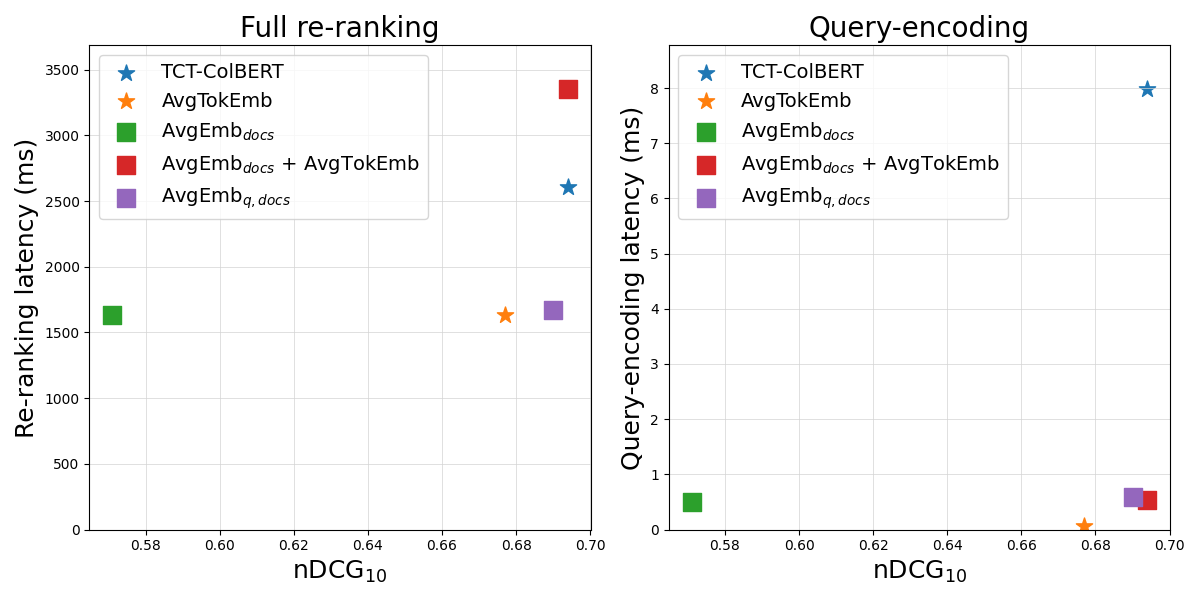
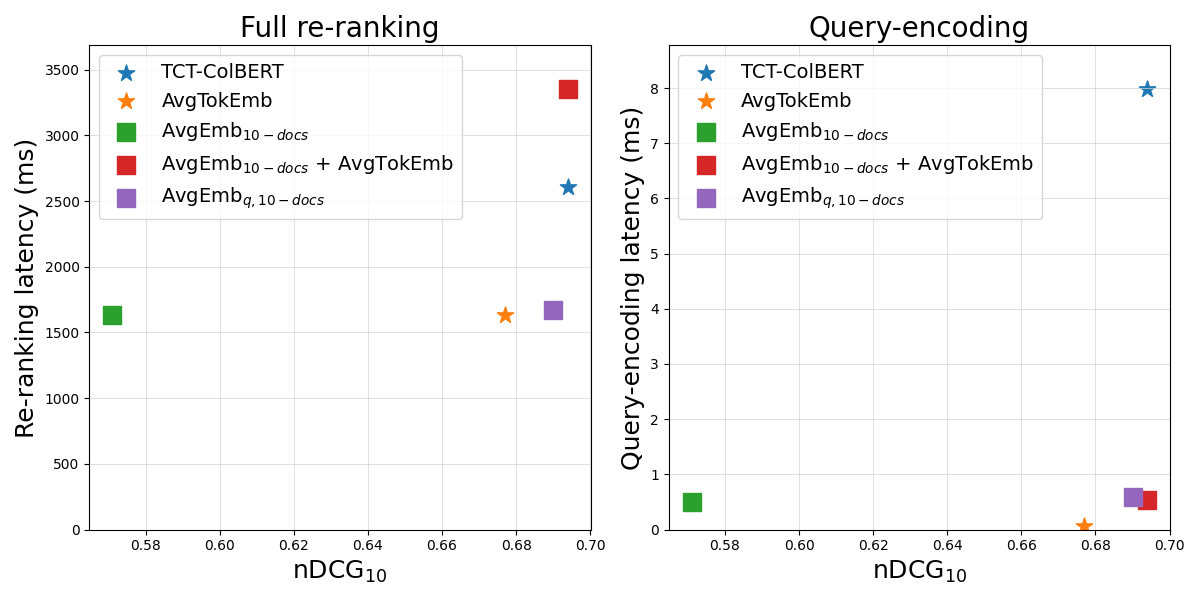
More plot updates

diff --git a/plot_data/weights_per_n_docs.py b/plot_data/weights_per_n_docs.py
@@ -20,15 +20,12 @@ def parse_args():
 
 
 def plot(data: Dict[str, Any]):
-    fig, (ax1, ax2) = plt.subplots(2, 1, figsize=(10, 10))
+    fig, (ax) = plt.subplots(1, 1, figsize=(18, 10))
 
-    for ax in [ax1, ax2]:
-        ax.set_xlabel('Embeddings position (%)', fontsize=18)
-        ax.set_ylabel('Weight distribution (%)', fontsize=18)
-    ax1.set_title('All weights', fontsize=20)
-    ax2.set_title('Excluding lightweight query encoding', fontsize=20)
-    ax1.set_ylim(0, 100)
-    ax2.set_ylim(0, 10)
+    ax.set_xlabel('Lexical rank', fontsize=40)
+    ax.set_ylabel('Weight distribution (%)', fontsize=40)
+    ax.set_ylim(0, 5)
+    ax.set_xlim(0, 50)
 
     plt.subplots_adjust(hspace=0.3)
 
@@ -43,14 +40,6 @@ def plot(data: Dict[str, Any]):
         # Use index for x-axis values
         x_values = np.arange(len(weights))
 
-        # Plot the first element separately
-        ax1.plot(x_values[0], weights[0], marker='X', color=f"C{(i % 9)}", markersize=10)
-        if i == 0:
-            ax1.text(x_values[0] + 1, weights[0] - 1, '← q_light', fontsize=12, verticalalignment='center', fontweight='bold')
-
-        # Plot the rest of the elements
-        ax1.plot(x_values[1:], weights[1:], marker='.', color=f"C{(i % 9)}", label=f"n_docs={n_docs}", markersize=10, zorder=len(data) - i)
-
         # Ignore the first element and normalize
         weights_ignored = weights[1:]
 
@@ -58,10 +47,14 @@ def plot(data: Dict[str, Any]):
         x_values_ignored = np.arange(1, len(weights_ignored) + 1)
 
         # Plot just the document weights, excluding q_light
-        ax2.plot(x_values_ignored, weights_ignored, marker='.', color=f"C{(i % 9)}", label=f"n_docs={n_docs}", markersize=10, zorder=len(data) - i)
+        ax.plot(x_values_ignored, weights_ignored, marker='.', color=f"C{(i % 9)}", label="AvgEmb$_{q," + str(n_docs) + "-docs}$", markersize=20, zorder=len(data) - i)
 
-    for ax in [ax1, ax2]:
-        ax.legend(fontsize=16)
+        # TODO: Update weights and conclusions.
+
+    ax.legend(fontsize=40)
+
+    # Make x ticks and y ticks larger
+    ax.tick_params(axis='both', which='major', labelsize=26)
 
     fig.tight_layout()
     fig.savefig("plot_data/figures/weights_per_n_docs.png", transparent=True)
@@ -70,17 +63,20 @@ def plot(data: Dict[str, Any]):
 
 def main(args: argparse.Namespace) -> None:
     data = [
-        {
-            "n_docs": 1,
-            "weights": [0.9076, 0.0924],
-        },
+        # {
+        #     "n_docs": 1,
+        #     "weights": [0.9076, 0.0924],
+        #     # TODO: update "weights": [0.8700, 0.1300],  # /home/bvdb9/fast-forward-indexes/lightning_logs/checkpoints/new_est/1d_tokW+sp+pad_0.00183.ckpt
+        # },
         {
             "n_docs": 10,
             "weights": [0.8738, 0.0441, 0.0265, 0.0189, 0.0122, 0.0087, 0.0063, 0.0040, 0.0027, 0.0018, 0.0010],
+            # TODO: update "weights": [0.6936, 0.0638, 0.0421, 0.0341, 0.0289, 0.0257, 0.0242, 0.0232, 0.0213, 0.0217, 0.0215],  # /home/bvdb9/fast-forward-indexes/lightning_logs/checkpoints/new_est/10d_tokW+sp+pad_0.00186.ckpt
         },
         {
             "n_docs": 50,
             "weights": [8.9212e-01, 3.6479e-02, 2.2330e-02, 1.6203e-02, 1.1144e-02, 7.5169e-03, 5.0182e-03, 2.8782e-03, 1.7377e-03, 1.0049e-03, 4.4296e-04, 5.1144e-04, 2.6757e-04, 2.2374e-04, 1.4806e-04, 1.3727e-04, 1.0585e-04, 1.0608e-04, 9.6284e-05, 8.7027e-05, 8.9261e-05, 7.7776e-05, 6.8541e-05, 7.1505e-05, 5.9475e-05, 5.7373e-05, 5.8475e-05, 6.0248e-05, 5.1139e-05, 4.9616e-05, 4.7762e-05, 4.3286e-05, 4.5835e-05, 4.4199e-05, 4.3274e-05, 3.8881e-05, 4.1475e-05, 4.0134e-05, 3.8934e-05, 3.7348e-05, 4.1206e-05, 3.6884e-05, 3.5854e-05, 3.3980e-05, 3.3237e-05, 3.1707e-05, 3.3776e-05, 3.4860e-05, 3.3675e-05, 3.2397e-05, 3.0572e-05]
+            # TODO: update "weights" with newer model
         },
     ]
 

diff --git a/plot_data/weight_methods.py b/plot_data/weight_methods.py
@@ -24,10 +24,10 @@ def plot(data: Dict[str, Any], ax: Any) -> None:
     weights = data["weights"]
     rank_scores = data["rank_scores"]
 
-    ax.set_title(f"n_docs={n_docs}", fontsize=20)
+    ax.set_title("AvgEmb$_{q," + f"{n_docs}" + "-docs}$", fontsize=24)
     ax.set_xlim(0, n_docs)
-    ax.set_xlabel('Document rank', fontsize=18)
-    ax.set_ylabel('Weight distribution (%)', fontsize=18)
+    ax.set_xlabel('Document rank', fontsize=20)
+    ax.set_ylabel('Weight distribution (%)', fontsize=20)
 
     # Normalize weights
     weights_normalized = np.array(weights)
@@ -40,11 +40,13 @@ def plot(data: Dict[str, Any], ax: Any) -> None:
     x_values = np.linspace(0, n_docs, len(weights))
 
     # Plot the weights as a line plot with dots
-    ax.plot(x_values, weights, marker='.', label=f"Learned")
+    ax.plot(x_values, weights, marker='.', label="AvgEmb$_{q," + f"{n_docs}" + "-docs}$")
 
     # Add a horizontal line for uniform weight distribution
     uniform_weight = 100 / len(weights)
     ax.axhline(y=uniform_weight, color='r', linestyle=(0, (3, 6)), label='Uniform')
+
+    # TODO: Update weights, approx lines, and conclusions.
 
     # # Add exponential weight distribution
     # exp_factor = 0.5
@@ -55,7 +57,7 @@ def plot(data: Dict[str, Any], ax: Any) -> None:
     # Exponential Decay: y = 0.52 * e^(-0.42 * x)
     exp_decay = 0.52 * np.exp(-0.42 * np.arange(0, n_docs))
     exp_decay = exp_decay / np.sum(exp_decay) * 100
-    ax.plot(x_values, exp_decay, linestyle=(0, (5, 5)), label='Exponential decay, y=0.52 * e^(-0.42x)')
+    ax.plot(x_values, exp_decay, linestyle=(0, (5, 5)), label='Exponential decay')
 
     # Normalize and softmax position scores and plot them as weight distribution
     rank_scores = np.array(rank_scores)
@@ -65,20 +67,22 @@ def plot(data: Dict[str, Any], ax: Any) -> None:
 
     # Scale softmax_rank_scores to start at 2 and end at 35
     softmax_rank_scores = 1 + (softmax_rank_scores - np.min(softmax_rank_scores)) * (37 - 1) / (np.max(softmax_rank_scores) - np.min(softmax_rank_scores))
-    ax.plot(x_values, softmax_rank_scores, linestyle=(0, (5, 5)), label='Softmax average BM25 score at document rank')
+    ax.plot(x_values, softmax_rank_scores, linestyle=(0, (5, 5)), label='Norm. avg. $\phi_S^{BM25}$ at rank $x$')
 
-    ax.legend(fontsize=16)
+    ax.tick_params(axis='both', which='major', labelsize=18)
+    ax.legend(fontsize=20)
 
 def main(args: argparse.Namespace) -> None:
     data_10 = {
         "n_docs": 10,
-        "weights": [0.8738, 0.0441, 0.0265, 0.0189, 0.0122, 0.0087, 0.0063, 0.0040, 0.0027, 0.0018, 0.0010],
+        # TODO: update "weights": [0.6936, 0.0638, 0.0421, 0.0341, 0.0289, 0.0257, 0.0242, 0.0232, 0.0213, 0.0217, 0.0215],  # /home/bvdb9/fast-forward-indexes/lightning_logs/checkpoints/new_est/10d_tokW+sp+pad_0.00186.ckpt
+        "weights": [0.8738, 0.0441, 0.0265, 0.0189, 0.0122, 0.0087, 0.0063, 0.0040, 0.0027, 0.0018, 0.0010],  
         "rank_scores": [37.483, 35.713, 34.547, 33.523, 32.566, 31.812, 31.234, 30.64, 30.298, 29.886]
     }
 
     data_50 = {
         "n_docs": 50,
-        "weights": [
+        "weights": [  # TODO: update weights with # /home/bvdb9/fast-forward-indexes/lightning_logs/checkpoints/new_est/50d_tokW+sp+pad_0.00*.ckpt
             8.9212e-01, 3.6479e-02, 2.2330e-02, 1.6203e-02, 1.1144e-02, 7.5169e-03,
             5.0182e-03, 2.8782e-03, 1.7377e-03, 1.0049e-03, 4.4296e-04, 5.1144e-04,
             2.6757e-04, 2.2374e-04, 1.4806e-04, 1.3727e-04, 1.0585e-04, 1.0608e-04,

diff --git a/plot_data/correlation_lexical.py b/plot_data/correlation_lexical.py
@@ -78,14 +78,16 @@ def plot_performances(performances: dict):
             markers = ['o', 's', 'D', '^', 'v', '<', '>', 'p', '*', 'h']
             plt.scatter(query, score, label=pipeline_names[j] if i == 0 else "", color=f"C{j % 10}", marker=markers[j % len(markers)])
 
-    plt.xlabel(f"Queries sorted on BM25 performance", fontsize=18)
-    plt.ylabel("nDCG@10", fontsize=18)
+    plt.xlabel(f"Queries sorted on BM25 performance", fontsize=30)
+    plt.ylabel("nDCG$_{10}$", fontsize=30)
     plt.xlim(-0.25, len(performances) - 1 + 0.25)
     plt.ylim(-0.01, 1.01)
     # plt.title("Correlation of performances between pipelines")
-    plt.legend(loc='lower right', fontsize=18, markerscale=1.75)
+    plt.legend(loc='lower right', fontsize=26, markerscale=1.75)
 
     plt.xticks(ticks=range(len(performances)), labels=[])  # Keep ticks but remove tick labels
+
+    plt.tick_params(axis='both', which='major', labelsize=18)
 
     plt.tight_layout()
     plt.savefig("plot_data/figures/correlation_lexical.png")
@@ -200,7 +202,8 @@ def main(args: argparse.Namespace) -> None:
         performances[i]['name'] = performances[i]['name'].str.replace(r', α=\[(.*?)\]', '', regex=True)
 
         # Rename AvgEmbD pipeline to "AvgEmb$_{docs}$"
-        performances[i].loc[performances[i]['name'].str.contains('AvgEmbD'), 'name'] = 'AvgEmb$_{docs}$'
+        performances[i].loc[performances[i]['name'] == 'AvgEmbD', 'name'] = 'AvgEmb$_{10-docs}$'
+        performances[i].loc[performances[i]['name'] == 'AvgEmb', 'name'] = 'AvgEmb$_{q,10-docs}$'
 
         # Reindex
         performances[i].reset_index(drop=True, inplace=True)

diff --git a/plot_data/reranking_runtimes_distribution.py b/plot_data/reranking_runtimes_distribution.py
@@ -94,7 +94,10 @@ def plot_runtimes(profiles: List[Dict[str, Any]]):
             )
 
     # ax.set_xlabel('Pipelines')
-    ax.set_ylabel('Re-ranking runtime (ms)', fontsize=14)
+    if args.motivation:
+        ax.set_ylabel('Re-ranking runtime (ms)', fontsize=14)
+    else:
+        ax.set_ylabel('Re-ranking runtime (ms)', fontsize=12.5)
     if not args.motivation:
         ax.legend(bbox_to_anchor=(1, 0.5), loc='center left', fontsize=11)
 
@@ -105,7 +108,7 @@ def plot_runtimes(profiles: List[Dict[str, Any]]):
         # Bigger font for xticks
         plt.xticks(fontsize=13)
     else:
-        plt.xticks(rotation=65)
+        plt.xticks(rotation=70, fontsize=13)
     plt.tight_layout()
 
     if args.motivation:
@@ -140,21 +143,21 @@ def main(args: argparse.Namespace) -> None:
             "_compute_scores": 888,
         },
         {
-            "name": "AvgEmb$_{docs}$",
+            "name": "AvgEmb$_{10-docs}$",
             "total": 1636,
             "encode_queries": 64.8,
             "_get_vectors": 543,
             "_compute_scores": 888,
         },
         {
-            "name": "AvgEmb$_{docs}$ + AvgTokEmb",
+            "name": "AvgEmb$_{10-docs}$ + AvgTokEmb",
             "total": 3350,
             "encode_queries": 68.59,
             "_get_vectors": 1087,
             "_compute_scores": 1775,
         },
         {
-            "name": "AvgEmb",
+            "name": "AvgEmb$_{q,10-docs}$",
             "total": 1671,
             "encode_queries": 75.98,
             "_get_vectors": 543,

diff --git a/plot_data/performance_efficiency_graph.py b/plot_data/performance_efficiency_graph.py
@@ -79,19 +79,19 @@ def main(args: argparse.Namespace) -> None:
             "nDCG@10": 0.677,
         },
         {
-            "name": "AvgEmb$_{docs}$",
+            "name": "AvgEmb$_{10-docs}$",
             "latency": 1636,
             "latency_enc": 64.8,
             "nDCG@10": 0.571,
         },
         {
-            "name": "AvgEmb$_{docs}$ + AvgTokEmb",
+            "name": "AvgEmb$_{10-docs}$ + AvgTokEmb",
             "latency": 3350,
             "latency_enc": 68.59,
             "nDCG@10": 0.694,
         },
         {
-            "name": "AvgEmb$_{q,docs}$",
+            "name": "AvgEmb$_{q,10-docs}$",
             "latency": 1671,
             "latency_enc": 75.98,
             "nDCG@10": 0.690,

diff --git a/plot_data/q_enc_distribution.py b/plot_data/q_enc_distribution.py
@@ -62,6 +62,7 @@ def plot_runtimes(profiles: Dict[str, float]):
     )
 
     ax.set_xticks([])
+    ax.tick_params(axis='both', which='major', labelsize=12)
 
     # handles, labels = ax.get_legend_handles_labels()
     # ax.legend(handles[::-1], labels[::-1], bbox_to_anchor=(1, 0.5), loc='center left')
